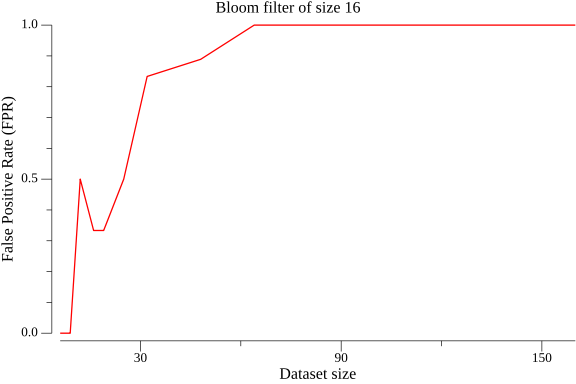
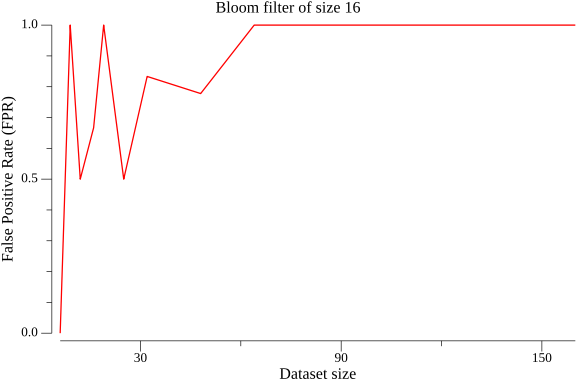
⚡ Optimizes Bloom filter in terms of space

diff --git a/bloomFilter.go b/bloomFilter.go
@@ -13,28 +13,31 @@ func hashMurmur3(data string, seed uint32) uint32 {
 }
 
 type BloomFilter struct {
-	bitArray []bool
+	bitArray []uint8
 	size     uint
 	seed     uint32
 }
 
 func NewBloomFilter(size uint, seed uint32) *BloomFilter {
 	return &BloomFilter{
-		bitArray: make([]bool, size),
+		bitArray: make([]uint8, (size+7)/8),
 		size:     size,
 		seed:     seed,
 	}
 }
 
 func Add(key string, bloom *BloomFilter) {
-	hash := hashMurmur3(key, bloom.seed)
-	index := hash % uint32(bloom.size)
-	// fmt.Println(key, " added at index ", index)
-	bloom.bitArray[index] = true
+	hash := hashMurmur3(key, bloom.seed) // Calculate the hash of the key
+	index := hash % uint32(bloom.size)   // Modulo operation to get the index within the Bloom filter size
+	ind1 := index / 8                    // Calculate the byte index in the bit array
+	ind2 := index % 8                    // Calculate the bit index within the byte
+	bloom.bitArray[ind1] |= (1 << ind2)  // Set the bit at the calculated index to 1
 }
 
 func Exists(key string, bloom *BloomFilter) bool {
 	hash := hashMurmur3(key, bloom.seed)
 	index := hash % uint32(bloom.size)
-	return bloom.bitArray[index]
+	ind1 := index / 8
+	ind2 := index % 8
+	return (bloom.bitArray[ind1] & (1 << ind2)) != 0
 }
